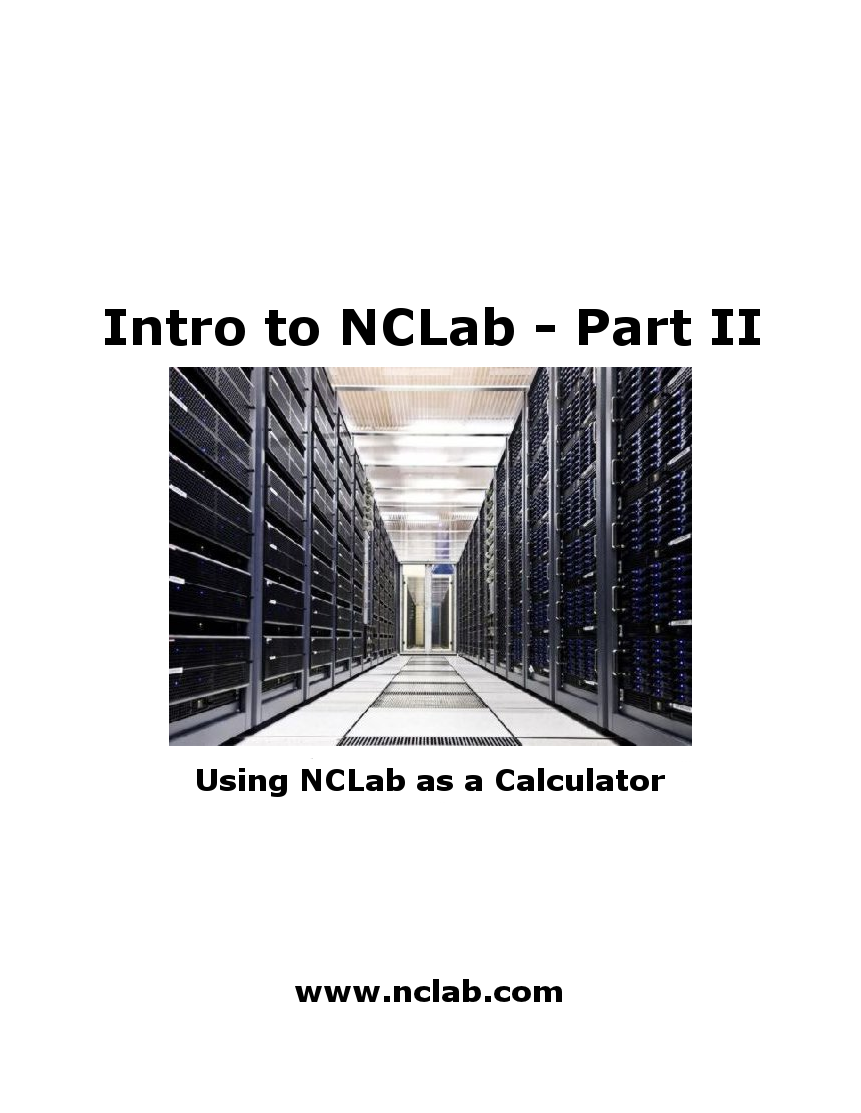
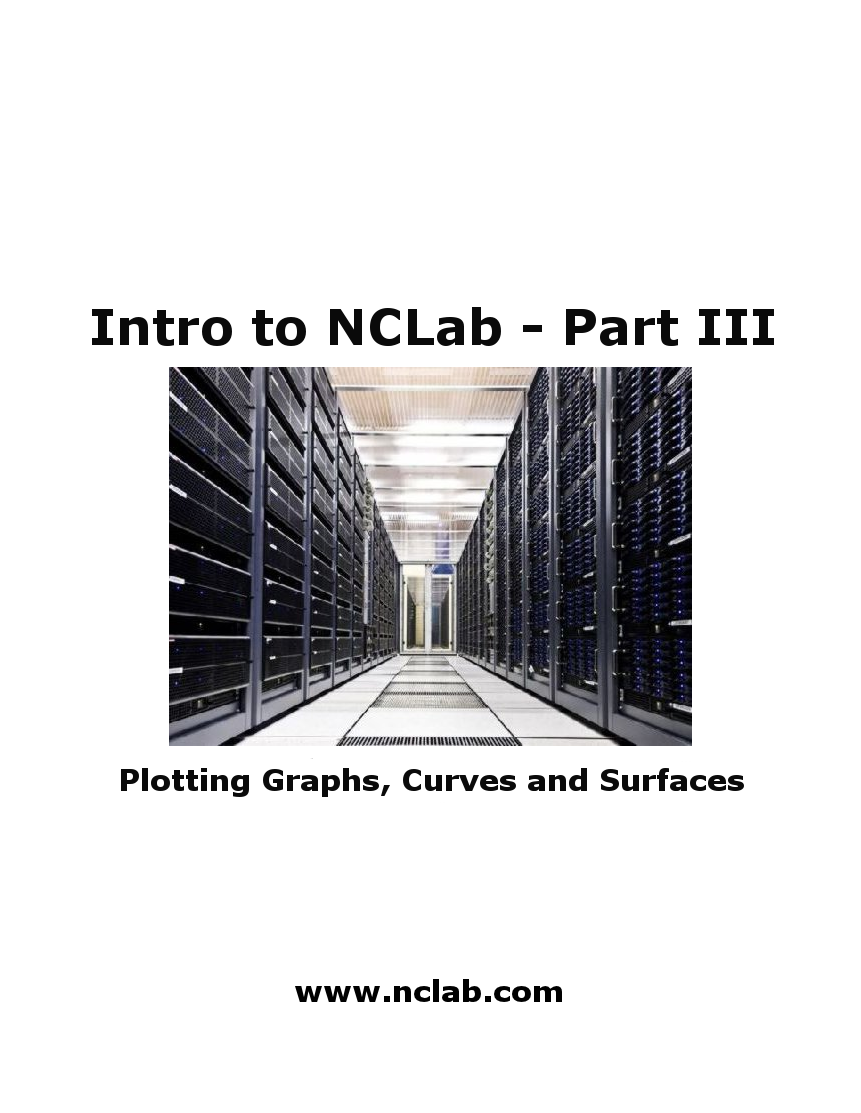
Merging plotting into calculator.

Changed region(s): [[0.1208, 0.6721, 0.8757, 0.7332], [0.0906, 0.2749, 0.9059, 0.336]]

diff --git a/nclab-calculator/nclab-calculator.tex b/nclab-calculator/nclab-calculator.tex
@@ -244,7 +244,7 @@ is shown in Fig. \ref{fig:1p3r}.
 
 \begin{figure}[!ht]
 \begin{center}
-\includegraphics[width=\textwidth]{img/1p2r.png}
+\includegraphics[width=\textwidth]{img/1p3r.png}
 \end{center}
 %\vspace{-2mm}
 \caption{New descriptive text cell was added above the input cell.}
@@ -269,7 +269,7 @@ including subtraction (try for example "5 - 3"), multiplication
 
 \begin{figure}[!ht]
 \begin{center}
-\includegraphics[width=\textwidth]{img/1p2r2.png}
+\includegraphics[width=\textwidth]{img/1p3r2.png}
 \end{center}
 %\vspace{-2mm}
 \caption{Subtraction and multiplication.}
@@ -399,6 +399,344 @@ tanh($x$) & hyperbolic tangent of $x$ \\
 For a complete overview of functions provided by Numpy we recommend the 
 web page \\ {\tt http://www.scipy.org/Numpy\_Functions\_by\_Category}.
 
+%%%%%%%%%%%%%%%%%%%%%%%%%%%%%%%%%%%%%%%%%%%%%%%%%%%%%%%%%%%%%%%%%%%%%%%%
+
+\section{Plotting Functions of One Variable}\label{plotting}
+
+Plotting can be done via the Pylab library. Pylab is a standard Python library that is 
+superior in almost every way to MATLAB. To use Pylab, login to NCLab and launch a Python 
+worksheet first.
+
+The Pylab {\tt plot} command takes two
+lists: $x$-coordinates and $y$-coordinates of points on a curve. Between the 
+points, the curve is interpolated linearly. Let us illustrate this on a simple 
+example with just five points [0, 0], [1, 2], [2, 0.5], [3, 2.5] and [4, 0]:
+
+\begin{verbatim}
+from pylab import *
+x = [0,0, 1.0, 2.0, 3.0, 4.0]
+y = [0.0, 2.0, 0.5, 2.5, 0]
+clf()
+plot(x, y)
+lab.show()
+\end{verbatim}
+The commands {\tt clf()}, {\tt plot()} and {\tt lab.show()} do clear the canvas, 
+plot the graph, and show the graph, respectively.
+The output is shown in Fig. \ref{fig:plot}.
+
+
+\begin{figure}[!ht]
+\begin{center}
+\hbox{}
+\hspace{-6mm}
+\includegraphics[width=0.56\textwidth]{img/plot.png}
+\end{center}
+\vspace{-2mm}
+\caption{Piecewise-linear curve with five points.}
+\label{fig:plot}
+%\vspace{-1cm}
+\end{figure}
+\noindent
+In the following we will discuss more options and show some useful techniques.
+Let's say, for example, that we want to plot the function $f(x) = \sin(x)$
+in the interval $(0, 2\pi)$. The array of $x$-coordinates of equidistant points 
+between 0 and $\pi$ with step 0.05 can be created easily using the command {\tt arange}:
+
+\begin{verbatim}
+from numpy import *
+x = arange(0, 2*pi, 0.05)
+\end{verbatim}
+Changing the step size will change the resolution - with a smaller step the resolution will 
+be finer and vice-versa. Next, the array of $y$-coordinates of the points is obtained via
+
+\begin{verbatim}
+y = sin(x)
+\end{verbatim}
+The last part we already know:
+
+\begin{verbatim}
+clf()
+plot(x, y)
+lab.show()
+\end{verbatim}
+\noindent
+The output is shown in Fig. \ref{fig:plot1}.
+
+\begin{figure}[!ht]
+\begin{center}
+\includegraphics[width=0.6\textwidth]{img/plot1.png}
+\end{center}
+\vspace{-6mm}
+\caption{Plotting $\sin(x)$ in interval $(0, 2\pi)$ with subdivision step 0.05.}
+\label{fig:plot1}
+%\vspace{-2mm}
+\end{figure}
+\noindent
+The plot can be made nicer by adding a label, and also the color 
+and the line style can be changed. Let us start with adding a label:
+
+\begin{verbatim}
+lb = "Solid blue line"
+plot(x, y, 'b-', label = lb)
+legend()
+lab.show()
+\end{verbatim}
+The output is shown in Fig. \ref{fig:plot2}.
+\newpage
+
+\begin{figure}[!ht]
+\begin{center}
+\includegraphics[width=0.6\textwidth]{img/plot2.png}
+\end{center}
+\vspace{-6mm}
+\caption{Adding a label.}
+\label{fig:plot2}
+%\vspace{-1cm}
+\end{figure}
+
+\noindent
+Next let us change the color to red and line style to dashed: 
+
+\begin{verbatim}
+lb = "Dashed red line"
+clf()
+plot(x, y, 'r--', label = lb)
+legend()
+lab.show()
+\end{verbatim}
+The output is shown in Fig. \ref{fig:plot3}.
+
+
+
+\begin{figure}[!ht]
+\begin{center}
+\includegraphics[width=0.6\textwidth]{img/plot3.png}
+\end{center}
+\vspace{-2mm}
+\caption{Same graph using dashed red line.}
+\label{fig:plot3}
+\end{figure}
+\noindent
+The graph can be plotted using green color and small dots rather than 
+a solid or dashed line:
+
+\begin{verbatim}
+lb = "Dashed red line"
+clf()
+plot(x, y, 'g.', label = lb)
+legend()
+lab.show()
+\end{verbatim}
+The output is shown in Fig. \ref{fig:plot4}.
+
+\newpage
+
+\begin{figure}[!ht]
+\begin{center}
+\includegraphics[width=0.6\textwidth]{img/plot4.png}
+\end{center}
+\vspace{-6mm}
+\caption{Same graph using dotted green line.}
+\label{fig:plot4}
+\vspace{-5mm}
+\end{figure}
+\noindent
+\newpage
+\noindent
+Last let us stay with green color but make the dots larger:
+
+\begin{verbatim}
+lb = "Dashed red line"
+clf()
+plot(x, y, 'go', label = lb)
+legend()
+lab.show()
+\end{verbatim}
+\noindent
+The output is shown in Fig. \ref{fig:plot5}.
+
+\begin{figure}[!ht]
+\begin{center}
+\includegraphics[width=0.6\textwidth]{img/plot5.png}
+\end{center}
+\vspace{-6mm}
+\caption{Same graph using large green dots.}
+\label{fig:plot5}
+\vspace{-4mm}
+\end{figure}
+\noindent
+For a complete list of options available for the {\tt plot} command, 
+visit the Pylab page {\tt http:// www.scipy.org/PyLab}.
+
+\section{Plotting General Planar Curves}
+
+The concept of plotting based on two arrays of $x$ and $y$ coordinates
+allows us to do much more than only plot graphs of functions of one variable.
+We can easily plot more general curves such as circles, spirals and others.
+Let us illustrate this on a spiral that this parameterized 
+by 
+$$
+x(t) = t \cos(t), \ \ \ \ 
+y(t) = t \sin(t)
+$$ 
+in the interval $(0, 10)$ for $t$. The complete code is
+
+\begin{verbatim}
+from pylab import *
+from numpy import *
+t = arange(0, 10, 0.05)
+x = t*cos(t)
+y = t*sin(t)
+clf()
+plot(x, y)
+lab.show()
+\end{verbatim}
+The output is shown in Fig. \ref{fig:plot6}.
+
+\begin{figure}[!ht]
+\begin{center}
+\includegraphics[width=0.6\textwidth]{img/plot6.png}
+\end{center}
+\vspace{-6mm}
+\caption{Plotting a spiral.}
+\label{fig:plot6}
+\vspace{-4mm}
+\end{figure}
+\noindent
+
+
+\section{Plotting Functions of Two Variables with WebGL}
+
+For this functionality, your browser has to support WebGL (most of modern browsers do, 
+with the exception of Internet Explorer). NCLab offers the following simple way to plot 
+functions of two variables:
+
+\begin{verbatim}
+from numpy import sin, sqrt, arctan
+
+# Define intervals on the x and y axes.
+x0 = 0.0
+x1 = 10.0
+y0 = 0.0
+y1 = 10.0
+
+# Define the corresponding divisions.
+nx = 100
+ny = 100
+
+# Define a function:
+def f(x, y):
+    return sin(sqrt(x**2 + y**2))
+
+# Render the surface using WebGL.
+lab.surface((x0, x1, nx), (y0, y1, ny), f)
+\end{verbatim}
+
+\begin{figure}[!ht]
+\begin{center}
+\includegraphics[width=0.8\textwidth]{img/webgl.png}
+\end{center}
+\vspace{-2mm}
+\caption{Plotting functions of two variable.}
+\label{fig:webgl}
+%\vspace{-1cm}
+\end{figure}
+
+
+\section{Plotting General Triangulated Surfaces with WebGL}
+
+NCLab also supports plotting of general 3D surfaces via WebGL. The surface needs 
+to be composed of linear triangles (same as for Open GL). There is a simple 
+format in NCLab that one has to follow. Let us illustrate it on a sequence of very 
+simple examples. First we will plot one triangle only. 
+
+\begin{verbatim}
+# Define color:
+color = [0.4, 0.9, 0.6]
+
+# Render a single triangle.
+lab.visualize({'vertices': [0, 0, 1, 1, 0, 1, 1, 1, 1], 
+               'indices': [0, 1, 2],
+               'color': color})
+\end{verbatim}
+The numbers in {\tt color} are the RGB components scaled between 0 and 1. Further,
+{\tt vertices} are triplets of coordinates of the grid points in 3D, {\tt indices}
+are also triplets but of integers. Each such triplet contains indices of the vertices
+of one triangle. Last is the parameter {\tt color}. 
+
+\begin{figure}[!ht]
+\begin{center}
+\includegraphics[width=0.6\textwidth]{img/tria1.png}
+\end{center}
+\vspace{-2mm}
+\caption{Plotting a single triangle.}
+\label{fig:tria1}
+%\vspace{-1cm}
+\end{figure}
+\noindent
+When the {\tt color} parameter is omitted, the plot will be colored 
+using the $x$-coordinate as a function value. For illustration, let us plot the 
+same triangle as above:
+
+\begin{verbatim}
+# Render a single triangle (omit the color parameter).
+lab.visualize({'vertices': [0, 0, 1, 1, 0, 1, 1, 1, 1], 
+               'indices': [0, 1, 2]})
+\end{verbatim}
+Output:
+
+\begin{figure}[!ht]
+\begin{center}
+\includegraphics[width=0.6\textwidth]{img/tria2.png}
+\end{center}
+\vspace{-2mm}
+\caption{Plotting a single triangle (color omitted).}
+\label{fig:tria2}
+\end{figure}
+\noindent
+Now let us plot two triangles. just to understand the data format a bit better.
+We have 4 grid points, therefore the {\tt vertices} array contains 12 numbers
+and the {\tt indices} array contains 6 numbers (three per triangle).
+
+\begin{verbatim}
+lab.visualize({'vertices': [0, 0, 0, 1, 0, 0, 0, 1, 0, 0, 0, 1], \
+               'indices': [0, 1, 2, 0, 3, 1], \
+               'edges': [0, 1],
+               'color': color})
+\end{verbatim}
+Output:
+\newpage
+\begin{figure}[!ht]
+\begin{center}
+\includegraphics[width=0.6\textwidth]{img/tria3.png}
+\end{center}
+\vspace{-2mm}
+\caption{Plotting two triangles.}
+\label{fig:tria3}
+\end{figure}
+\noindent
+Note the new parameters {\tt edges} that contains pairs of integer indices
+that define edges using the array of vertices.\\
+
+\noindent
+There can be up to tens of thousands of triangles in more complicated surfaces.
+This will work, but keep in mind that rendering large volumes of data takes
+more time.
+
+\section{Interested in 3D Geometrical Modeling?}
+At last, if you are interested in 3D geometrical modeling or CAD, we invite you to 
+explore PLaSM (Programming Language for Solid Modeling) that is available in 
+NCLab. PLaSM can be imported in any Python worksheet by typing 
+
+\begin{verbatim}
+from pyplasm import *
+\end{verbatim}
+Comprehensive tutorial in PDF along with three videos are available on NCLab's
+Tutorial page.
+
+
+
+\end{document}
 
 
 
